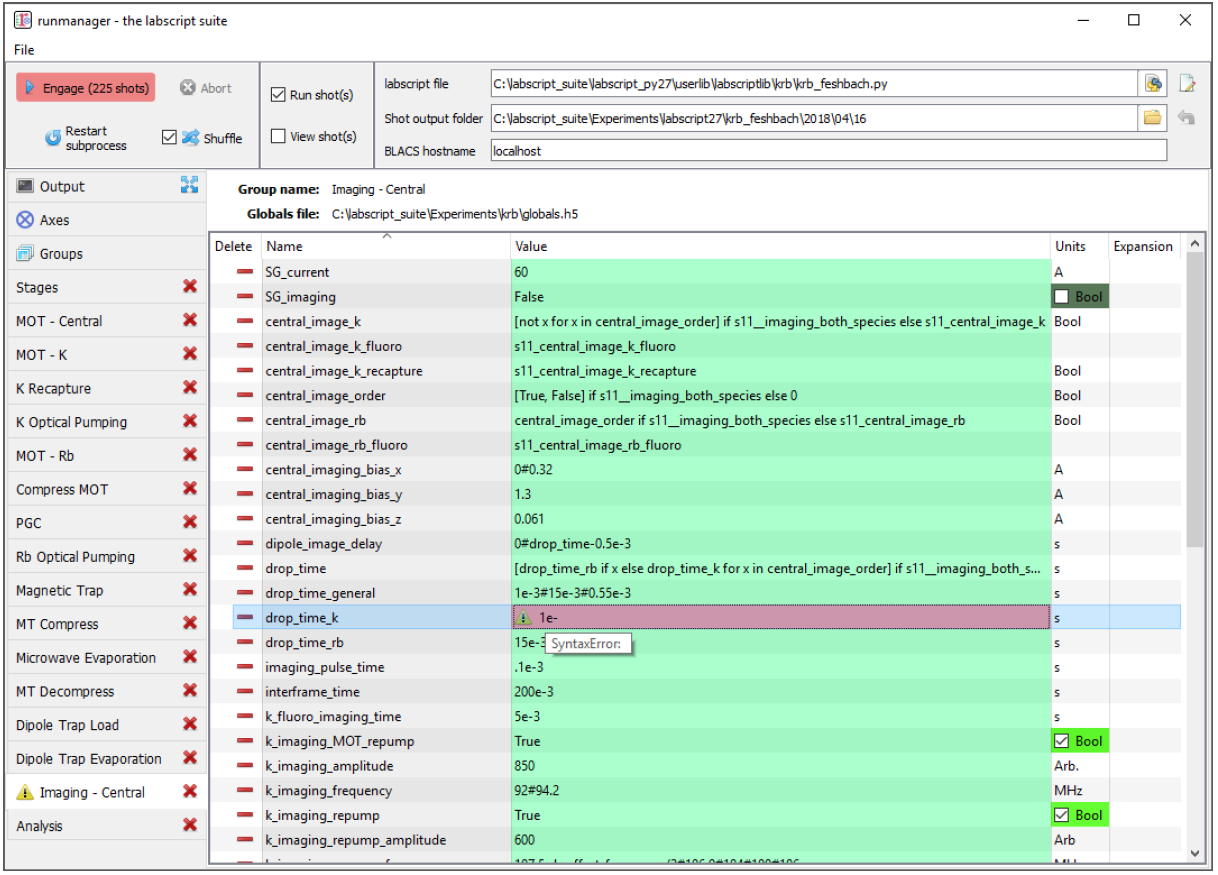
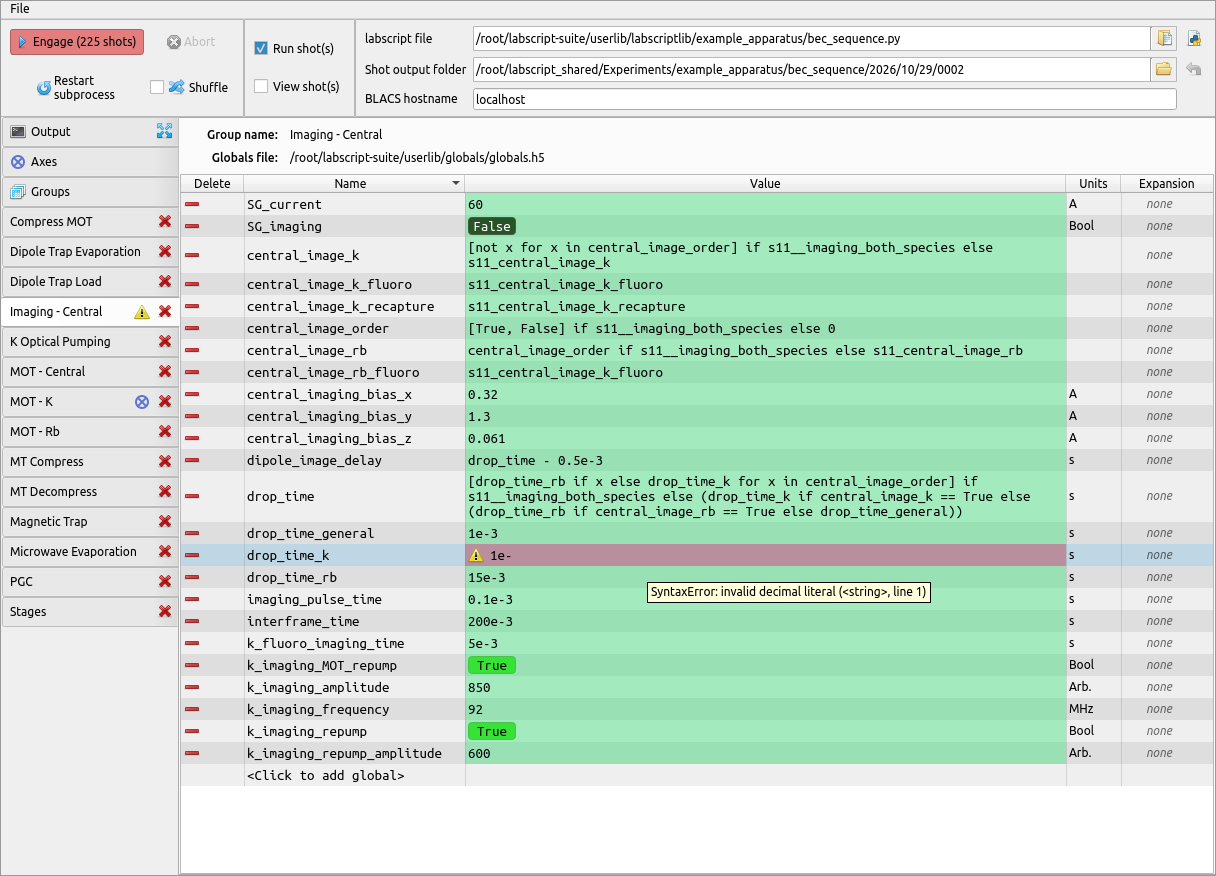
Retake the screenshots of the main window in the docs
The overview, interface, axes, groups, complex globals, evaluation error and Boolean globals screenshots show runmanager as it is now, with an example globals file that has the groups and globals of the screenshots that they replace. The caption of the complex globals screenshot no longer refers to the experiment in the first person. The docs build with no new warnings.
Claude-Session: https://claude.ai/code/session_01CEhjRcvvaKejruGiNCGQ5K

diff --git a/docs/source/usage.rst b/docs/source/usage.rst
@@ -243,7 +243,7 @@ coded to the successful evaluation of the expression, so that mistakes can be ea
     is determined by a separate global variable (a Boolean) and may contain a list of drop times if
     the user wishes to image multiple species. In the case of the expression generating a list, this
     global becomes an axis of a parameter space, running two shots for every other data point in the
-    parameter space (one shot to image each of the two species our experiment supports). Such an
+    parameter space (one shot to image each of the two species of the experiment). Such an
     expression could not be defined within experiment logic as parameter spaces must be defined within
     runmanager, not labscript. In order to simplify the view of globals with complex expressions, the
     tooltip (shown for the `central_image_rb` global) shows the value(s) the global will take in the next
